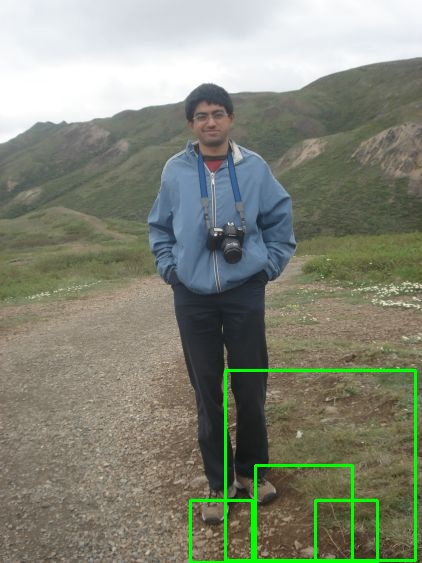
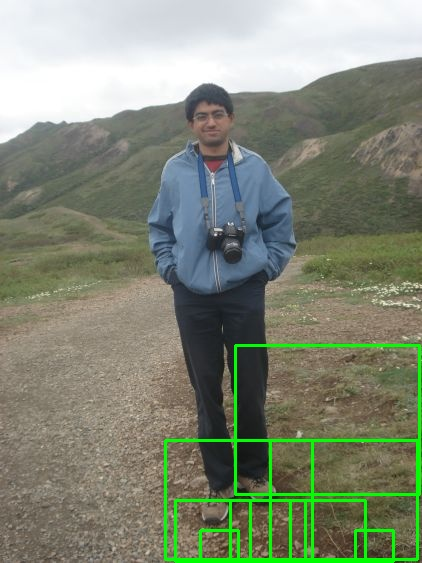
test 2 using boosted_predict

Changed region(s): [[0.3697, 0.6039, 1.0, 1.0]]

diff --git a/test2.py b/test2.py
@@ -1,0 +1,308 @@
+import os
+import cv2
+import pickle
+from config import data_directory, training_directory
+from boosting import integral_image, eval_weak_classifier, boosted_predict
+import importlib.util
+import numpy as np
+
+# Importing face annotations dynamically from a given file path
+def import_annotations(annotations_path):
+    spec = importlib.util.spec_from_file_location("face_annotations", annotations_path)
+    face_annotations = importlib.util.module_from_spec(spec)
+    spec.loader.exec_module(face_annotations)
+    return face_annotations.annotations
+
+# Load the trained model from a pickle file
+def load_model(model_name='face_detection_model.pkl'):
+    # Full file path
+    full_file_path = os.path.join(training_directory, model_name)
+
+    # Load the model
+    with open(full_file_path, 'rb') as file:
+        model_data = pickle.load(file)
+
+    return model_data
+
+# Calculate Intersection over Union (IoU) between two bounding boxes
+def calculate_iou(boxA, boxB):
+    # Coordinate calculations for intersection rectangle
+    xA = max(boxA[0], boxB[0])
+    yA = max(boxA[1], boxB[1])
+    xB = min(boxA[2], boxB[2])
+    yB = min(boxA[3], boxB[3])
+
+    # Area of intersection
+    intersection_area = max(0, xB - xA) * max(0, yB - yA)
+
+    # Areas of individual boxes
+    boxA_area = (boxA[2] - boxA[0]) * (boxA[3] - boxA[1])
+    boxB_area = (boxB[2] - boxB[0]) * (boxB[3] - boxB[1])
+
+    # Compute IoU
+    iou = intersection_area / float(boxA_area + boxB_area - intersection_area)
+    return iou
+
+
+def non_max_suppression_fast(boxes, overlapThresh):
+    # if there are no boxes, return an empty list
+    if len(boxes) == 0:
+        return []
+
+    # if the bounding boxes integers, convert them to floats --
+    # this is important since we'll be doing a bunch of divisions
+    if boxes.dtype.kind == "i":
+        boxes = boxes.astype("float")
+
+    print(f"Before NMS: {len(boxes)} boxes")
+    # initialize the list of picked indexes    
+    pick = []
+
+    # grab the coordinates of the bounding boxes
+    x1 = boxes[:,0]
+    y1 = boxes[:,1]
+    x2 = boxes[:,2]
+    y2 = boxes[:,3]
+
+    # compute the area of the bounding boxes and sort the bounding
+    # boxes by the bottom-right y-coordinate of the bounding box
+    area = (x2 - x1 + 1) * (y2 - y1 + 1)
+    idxs = np.argsort(y2)
+
+    # keep looping while some indexes still remain in the indexes list
+    while len(idxs) > 0:
+        # grab the last index in the indexes list and add the
+        # index value to the list of picked indexes
+        last = len(idxs) - 1
+        i = idxs[last]
+        pick.append(i)
+
+        # find the largest (x, y) coordinates for the start of
+        # the bounding box and the smallest (x, y) coordinates
+        # for the end of the bounding box
+        xx1 = np.maximum(x1[i], x1[idxs[:last]])
+        yy1 = np.maximum(y1[i], y1[idxs[:last]])
+        xx2 = np.minimum(x2[i], x2[idxs[:last]])
+        yy2 = np.minimum(y2[i], y2[idxs[:last]])
+
+        # compute the width and height of the bounding box
+        w = np.maximum(0, xx2 - xx1 + 1)
+        h = np.maximum(0, yy2 - yy1 + 1)
+
+        # compute the ratio of overlap
+        overlap = (w * h) / area[idxs[:last]]
+
+        # delete all indexes from the index list that have
+        idxs = np.delete(idxs, np.concatenate(([last],
+            np.where(overlap > overlapThresh)[0])))
+
+
+    # return only the bounding boxes that were picked using the integer data type
+    print(f"After NMS: {len(pick)} boxes")
+    return boxes[pick].astype("int")
+
+
+def refine_skin_mask(hsv_image):
+    # Define a new, more specific range for skin color
+    lower_skin = np.array([0, 58, 30], dtype="uint8")
+    upper_skin = np.array([33, 255, 255], dtype="uint8")
+
+    # Create initial skin mask
+    skin_mask = cv2.inRange(hsv_image, lower_skin, upper_skin)
+
+    # Apply a series of erosions and dilations to the mask
+    # using an elliptical kernel
+    kernel = cv2.getStructuringElement(cv2.MORPH_ELLIPSE, (13, 13))
+    skin_mask = cv2.erode(skin_mask, kernel, iterations=2)
+    skin_mask = cv2.dilate(skin_mask, kernel, iterations=2)
+
+    # Blur the mask to help remove noise
+    skin_mask = cv2.GaussianBlur(skin_mask, (9, 9), 0)
+
+    return skin_mask
+
+
+
+# Detect faces in an image using a trained AdaBoost model
+def detect_faces(image, boosted_model, weak_classifiers, scale_factor=1.25, step_size=5, overlapThresh=0.3, threshold=0.7, classifier_number=None):
+    detected_faces = []
+    gray_image = cv2.cvtColor(image, cv2.COLOR_BGR2GRAY)
+
+    # Convert to HSV for skin detection
+    hsv_image = cv2.cvtColor(image, cv2.COLOR_BGR2HSV)
+
+    skin_mask = refine_skin_mask(hsv_image)
+
+    # Initial window size should match the trained classifier input
+    window_size = (31, 25)
+    current_scale = 1.0
+    
+    # Sliding window approach with scaling
+    while window_size[0] * current_scale < gray_image.shape[1] and window_size[1] * current_scale < gray_image.shape[0]:
+        scaled_window_size = (int(window_size[0] * current_scale), int(window_size[1] * current_scale))
+
+        for y in range(0, gray_image.shape[0] - scaled_window_size[1], step_size):
+            for x in range(0, gray_image.shape[1] - scaled_window_size[0], step_size):
+                window = gray_image[y:y + scaled_window_size[1], x:x + scaled_window_size[0]]
+                resized_window = cv2.resize(window, window_size)
+                integral_window = integral_image(resized_window)
+
+                # Classifier evaluation using boosted_predict
+                prediction = boosted_predict(np.expand_dims(integral_window, axis=0), boosted_model, weak_classifiers)
+                
+                if prediction > 0:  # Assuming positive prediction indicates a face
+                    face_region = skin_mask[y:y + scaled_window_size[1], x:x + scaled_window_size[0]]
+                    if cv2.countNonZero(face_region) > (0.5 * scaled_window_size[0] * scaled_window_size[1]): 
+                        detected_faces.append((x, y, x + scaled_window_size[0], y + scaled_window_size[1]))
+
+        current_scale *= scale_factor
+
+    # Apply Non-Max Suppression to the bounding boxes
+    if len(detected_faces) > 0:
+        detected_faces = non_max_suppression_fast(np.array(detected_faces), overlapThresh)
+
+    return detected_faces
+
+
+def calculate_precision_recall(true_positives, false_positives, false_negatives):
+    """
+    Calculate precision and recall from true positives, false positives, and false negatives.
+    """
+    precision = true_positives / (true_positives + false_positives) if (true_positives + false_positives) > 0 else 0
+    recall = true_positives / (true_positives + false_negatives) if (true_positives + false_negatives) > 0 else 0
+    return precision, recall
+
+
+def load_test_images(directory):
+    """
+    Loads all images from the specified directory without resizing.
+    Args:
+        directory (str): Path to the directory containing images.
+    Returns:
+        List[Tuple[str, numpy.ndarray]]: A list of tuples, where each tuple contains
+                                         the file name and the image data as a numpy array.
+    """
+    images = []
+    for file_name in os.listdir(directory):
+        if file_name.lower().endswith(('.png', '.jpg', '.jpeg', '.bmp')):
+            file_path = os.path.join(directory, file_name)
+            image = cv2.imread(file_path, cv2.IMREAD_COLOR)
+            if image is not None:
+                images.append((file_name, image))
+    return images
+
+
+def test_cropped_faces(directory, classifiers, extracted_classifiers):
+    cropped_images = load_test_images(directory)
+    true_positives = 0
+    false_negatives = 0
+
+    for file_name, image in cropped_images:
+        detected_faces = detect_faces(image, classifiers, extracted_classifiers)
+        if len(detected_faces) > 0:
+            true_positives += 1
+        else:
+            false_negatives += 1
+
+    return true_positives, false_negatives
+
+def test_nonfaces(directory, classifiers, extracted_classifiers):
+    nonface_images = load_test_images(directory)
+    false_positives = 0
+
+    for file_name, image in nonface_images:
+        detected_faces = detect_faces(image, classifiers, extracted_classifiers)
+        if len(detected_faces) > 0:
+            false_positives += 1
+
+    return false_positives
+
+
+# The main function processes each annotated image and evaluates the detections
+def main():
+    # Load model data
+    model_data = load_model()
+    classifiers = model_data['classifiers']
+    extracted_classifiers = model_data['extracted_classifiers']
+
+    # Datasets
+    face_photos_dir = os.path.join(data_directory, 'test_face_photos')
+    output_dir = os.path.join(data_directory, 'output')
+    cropped_faces_dir = os.path.join(data_directory, 'test_cropped_faces')
+    nonfaces_dir = os.path.join(data_directory, 'test_nonfaces')
+
+    # Ensure output directory exists
+    if not os.path.exists(output_dir):
+        os.makedirs(output_dir)
+
+    # Import annotations
+    annotations = import_annotations(os.path.join(face_photos_dir, 'face_annotations.py'))
+    tp_face_photos, fp_face_photos, fn_face_photos = 0, 0, 0
+
+    for annotation in annotations:
+        photo_file_name = annotation['photo_file_name']
+        true_faces = annotation['faces']
+        image_path = os.path.join(face_photos_dir, photo_file_name)
+        image = cv2.imread(image_path)
+        if image is None:
+            print(f"Failed to load image: {image_path}")
+        else:
+            print(f"Image loaded successfully: {image_path}")
+
+        if image is not None:
+            detected_faces = detect_faces(image, classifiers, extracted_classifiers)
+            detected_flags = [False] * len(true_faces)
+
+            # Draw bounding boxes and count TP, FP, FN
+            for detected_box in detected_faces:
+                match_found = False
+                for idx, true_box in enumerate(true_faces):
+                    iou = calculate_iou(detected_box, true_box)
+                    if iou > 0.5:
+                        tp_face_photos += 1
+                        detected_flags[idx] = True
+                        match_found = True
+                        break
+                if not match_found:
+                    fp_face_photos += 1
+                
+                cv2.rectangle(image, (detected_box[0], detected_box[1]), (detected_box[2], detected_box[3]), (0, 255, 0), 2)
+
+            fn_face_photos += detected_flags.count(False)
+
+            # Save the image with bounding boxes
+            output_path = os.path.join(output_dir, photo_file_name)
+            cv2.imwrite(output_path, image)
+            if not cv2.imwrite(output_path, image):
+                print(f"Failed to save image: {output_path}")
+            else:
+                print(f"Image saved successfully: {output_path}")
+
+    # Testing on Cropped Faces and Nonfaces
+    tp_cropped, fn_cropped = test_cropped_faces(cropped_faces_dir, classifiers, extracted_classifiers)
+    fp_nonfaces = test_nonfaces(nonfaces_dir, classifiers, extracted_classifiers)
+    tn_nonfaces = len(load_test_images(nonfaces_dir)) - fp_nonfaces  # Calculate True Negatives in test_nonfaces
+
+    # Calculate precision and recall for face photos
+    precision_face_photos, recall_face_photos = calculate_precision_recall(tp_face_photos, fp_face_photos, fn_face_photos)
+
+    # Calculate precision and recall for cropped faces
+    precision_cropped, recall_cropped = calculate_precision_recall(tp_cropped, 0, fn_cropped)  # FP is 0 for cropped faces
+
+    # Output performance metrics
+    print("Dataset: Test Face Photos")
+    print(f"True Positives: {tp_face_photos}, False Positives: {fp_face_photos}, False Negatives: {fn_face_photos}")
+    print(f"Precision: {precision_face_photos:.2f}, Recall: {recall_face_photos:.2f}")
+    print("Assumption: This dataset contains both faces and non-faces.")
+    
+    print("\nDataset: Test Cropped Faces")
+    print(f"True Positives: {tp_cropped}, False Negatives: {fn_cropped}, False Positives: 0")
+    print(f"Precision: {precision_cropped:.2f}, Recall: {recall_cropped:.2f}")
+    print("Assumption: This dataset contains only faces. No false positives or true negatives expected.")
+    
+    print("\nDataset: Test Nonfaces")
+    print(f"False Positives: {fp_nonfaces}, True Negatives: {tn_nonfaces}")
+    print("Assumption: This dataset contains only non-faces. No true positives or false negatives expected.")
+
+if __name__ == "__main__":
+    main()
